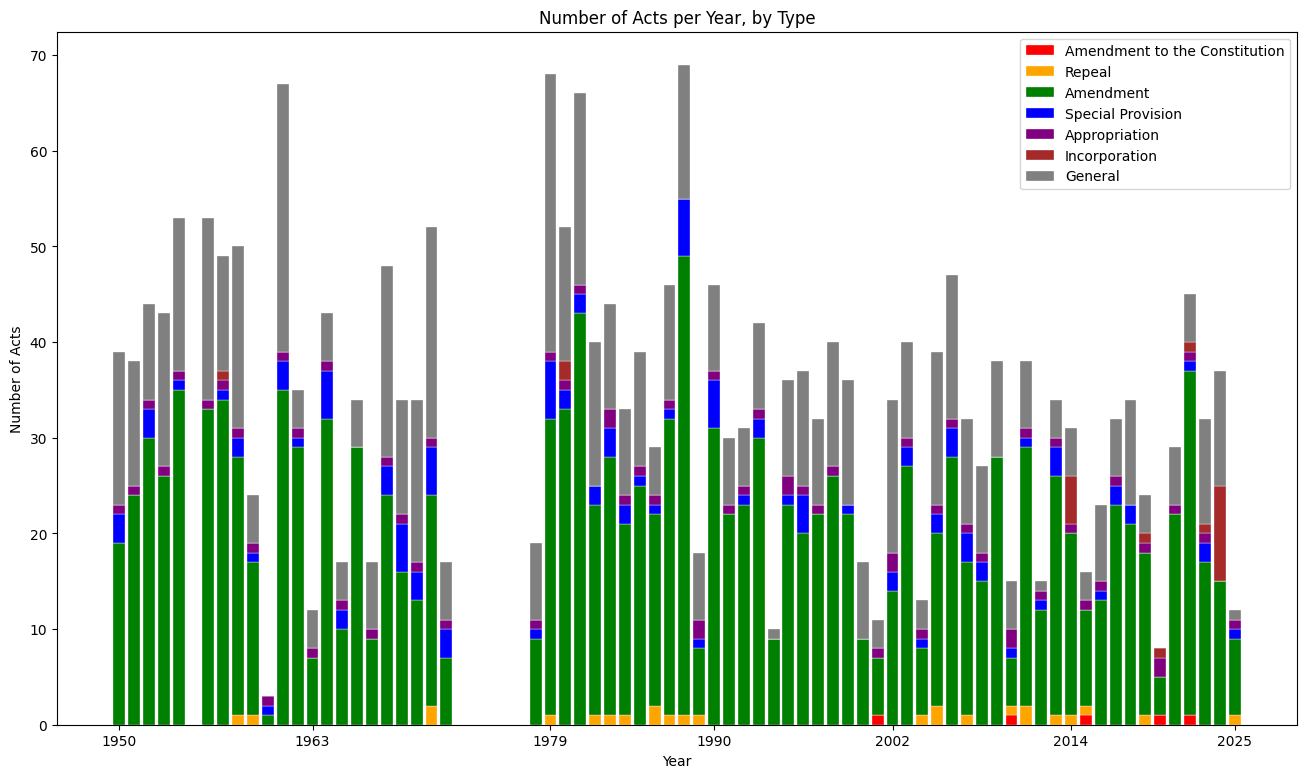
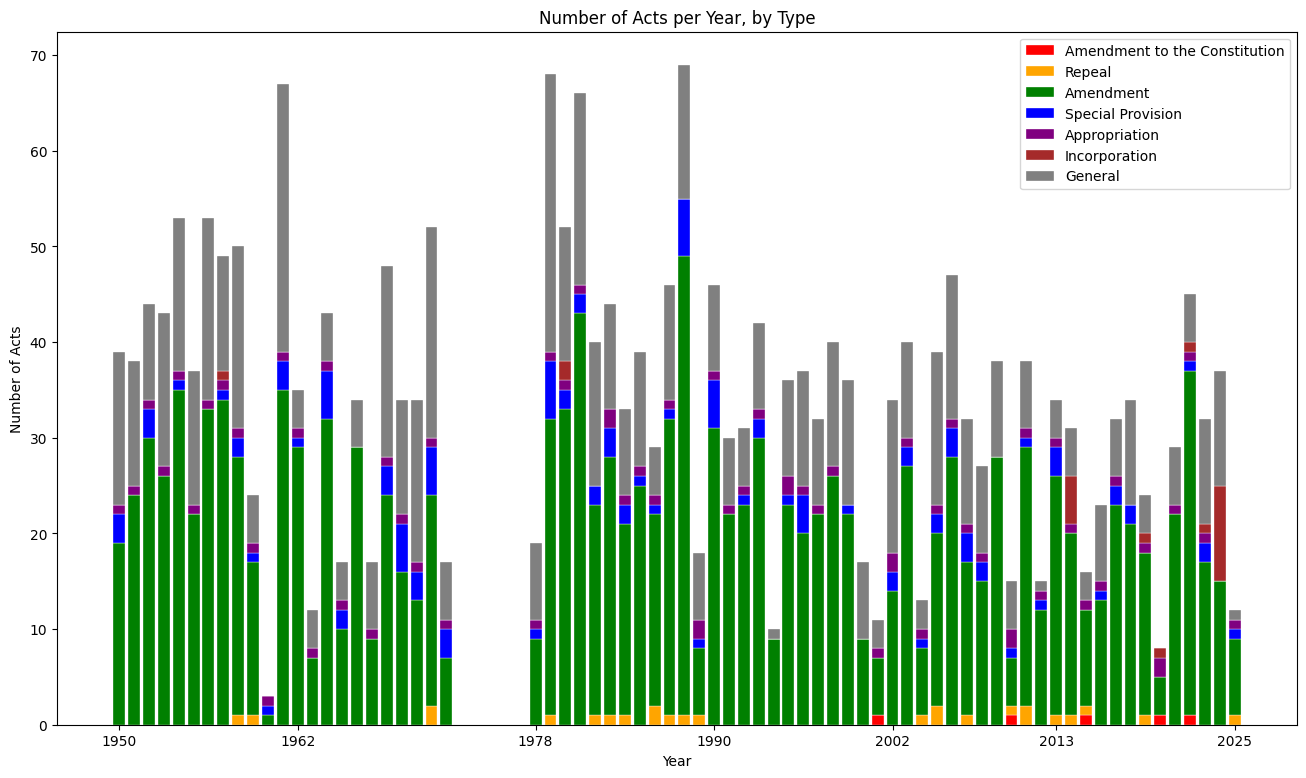
🤖 [build_readme.yml] 2025-08-17-1638

diff --git a/README.md b/README.md
@@ -1,10 +1,10 @@
 # 🇱🇰 Acts from the Sri Lankan Parliament ([lk_acts](https://github.com/nuuuwan/lk_acts))
 
-Scraped  **2,392** acts (1.53 MB) from [www.parliament.lk](https://www.parliament.lk/en) as of **2025-08-17 21:04:57**.
+Scraped  **2,429** acts (60.07 MB) from [www.parliament.lk](https://www.parliament.lk/en) as of **2025-08-17 22:08:12**.
 
 ![Year Chart](images/chart_year.png)
 
-## Acts (2,392)
+## Acts (2,429)
 
 ### 2025 (12)
 
@@ -2375,6 +2375,46 @@ Scraped  **2,392** acts (1.53 MB) from [www.parliament.lk](https://www.parliamen
 - 🟢 `03/1956` [Income Tax (Amendment)](data/acts/1950s/1956/1956-003) (1956-02-02)
 - ⚪ `02/1956` [Revised Edition of the Legislative Enactment](data/acts/1950s/1956/1956-002) (1956-02-01)
 - 🟢 `01/1956` [Motor Traffic (Amendment)](data/acts/1950s/1956/1956-001) (1956-01-19)
+
+### 1955 (37)
+
+- ⚪ `38/1955` [Coconut Crafting](data/acts/1950s/1955/1955-038) (1955-11-12)
+- 🟢 `37/1955` [Bank of Ceylon ( Amendment)](data/acts/1950s/1955/1955-037) (1955-11-12)
+- 🟢 `36/1955` [Co-operative Wholesale Establishment ( Amendment)](data/acts/1950s/1955/1955-036) (1955-11-12)
+- ⚪ `35/1955` [Development Finance Corporation of Ceylon](data/acts/1950s/1955/1955-035) (1955-10-04)
+- 🟢 `34/1955` [Estate Duty ( Amendment)](data/acts/1950s/1955/1955-034) (1955-10-04)
+- 🟣 `33/1955` [Appropriation](data/acts/1950s/1955/1955-033) (1955-09-21)
+- ⚪ `32/1955` [Official Secrets](data/acts/1950s/1955/1955-032) (1955-09-01)
+- 🟢 `31/1955` [Post Office  (Amendment)](data/acts/1950s/1955/1955-031) (1955-09-01)
+- 🟢 `30/1955` [National Housing ( Amendment)](data/acts/1950s/1955/1955-030) (1955-08-25)
+- 🟢 `29/1955` [Commissions of Inquiry (Amendment)](data/acts/1950s/1955/1955-029) (1955-08-25)
+- 🟢 `28/1955` [Milk Board ( Amendment)](data/acts/1950s/1955/1955-028) (1955-06-29)
+- 🟢 `27/1955` [Master Attendance ( Amendment)](data/acts/1950s/1955/1955-027) (1955-06-29)
+- 🟢 `26/1955` [Houses of Detention(Amendment)](data/acts/1950s/1955/1955-026) (1955-04-27)
+- 🟢 `25/1955` [The Promissory Oaths (Amendment)](data/acts/1950s/1955/1955-025) (1955-04-27)
+- ⚪ `24/1955` [All Ceylon Buddhist Congress](data/acts/1950s/1955/1955-024) (1955-04-16)
+- 🟢 `23/1955` [Medical (Amendment)](data/acts/1950s/1955/1955-023) (1955-04-14)
+- ⚪ `22/1955` [Administrative Districts](data/acts/1950s/1955/1955-022) (1955-04-14)
+- 🟢 `20/1955` [Tea Research ( Amendment)](data/acts/1950s/1955/1955-020) (1955-04-14)
+- 🟢 `19/1955` [Governess Sub- Sponsored Corporation ( Amendment)](data/acts/1950s/1955/1955-019) (1955-04-14)
+- 🟢 `18/1955` [Fire Arms (Amendment)](data/acts/1950s/1955/1955-018) (1955-04-14)
+- ⚪ `17/1955` [Rome Convention](data/acts/1950s/1955/1955-017) (1955-04-14)
+- 🟢 `16/1955` [Immigrants & Emigrants (Amendment)](data/acts/1950s/1955/1955-016) (1955-04-14)
+- ⚪ `15/1955` [Ceylon Institute of Scientific & Industrial Research](data/acts/1950s/1955/1955-015) (1955-04-12)
+- ⚪ `14/1955` [Sri Punyawardhana Samithiya](data/acts/1950s/1955/1955-014) (1955-04-12)
+- 🟢 `13/1955` [Citizenship (Amendment)](data/acts/1950s/1955/1955-013) (1955-04-12)
+- ⚪ `12/1955` [Stay-in Strikes](data/acts/1950s/1955/1955-012) (1955-04-12)
+- 🟢 `11/1955` [Income Tax (Amendment)](data/acts/1950s/1955/1955-011) (1955-04-12)
+- ⚪ `10/1955` [Town & Country Planning](data/acts/1950s/1955/1955-010) (1955-04-08)
+- ⚪ `09/1955` [Imports & Exports (Control)](data/acts/1950s/1955/1955-009) (1955-04-08)
+- 🟢 `08/1955` [Commissions of Inquiry (Amendment)](data/acts/1950s/1955/1955-008) (1955-03-24)
+- 🟢 `07/1955` [Food Supplies (Amendment)](data/acts/1950s/1955/1955-007) (1955-03-10)
+- 🟢 `06/1955` [ceylon Savings Bank (Amendment)](data/acts/1950s/1955/1955-006) (1955-02-18)
+- ⚪ `05/1955` [Bills of Exchange](data/acts/1950s/1955/1955-005) (1955-02-18)
+- ⚪ `04/1955` [Hospitals Lotteries](data/acts/1950s/1955/1955-004) (1955-02-18)
+- 🟢 `03/1955` [Rubber Research (Amendment)](data/acts/1950s/1955/1955-003) (1955-02-18)
+- ⚪ `02/1955` [Antiquities](data/acts/1950s/1955/1955-002) (1955-02-18)
+- 🟢 `01/1955` [Rubber Replanting Subsidy (Amendment)](data/acts/1950s/1955/1955-001) (1955-01-27)
 
 ### 1954 (53)
 
